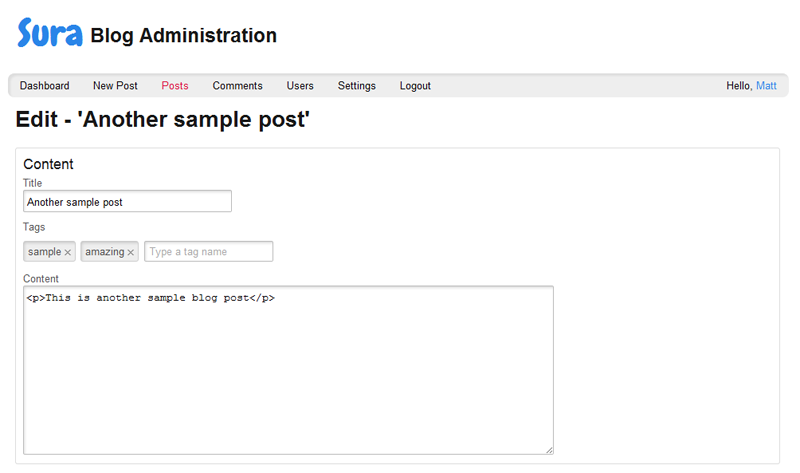
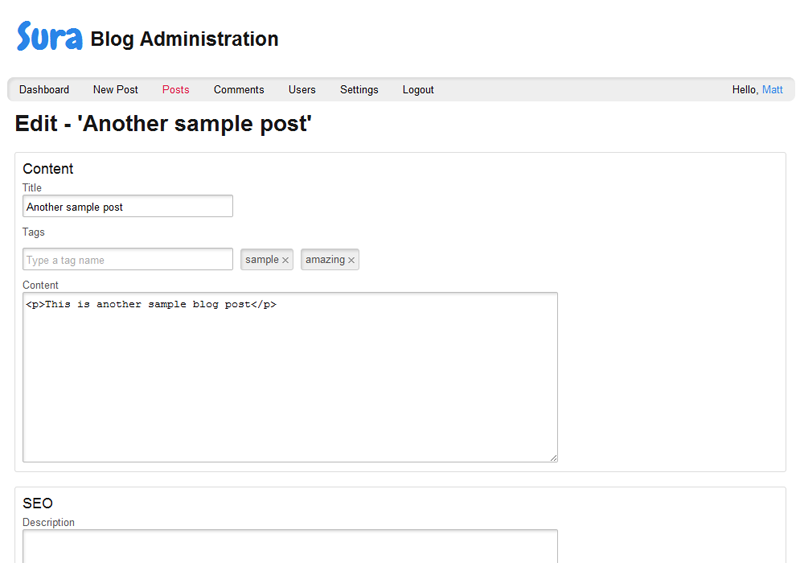
Rewritten tag input javascript

Changed region(s): [[0.0, 0.0296, 1.0, 0.6512], [0.0312, 0.8584, 0.6875, 0.9471], [0.6875, 0.7992, 0.7188, 0.8288]]

diff --git a/src/Sura/Content/Javascripts/Sura/sura-admin-posts.min.js b/src/Sura/Content/Javascripts/Sura/sura-admin-posts.min.js
@@ -1228,174 +1228,53 @@ $.timepicker.version = "0.9.6";
 })(jQuery);
 
 (function ($) {
-    $.fn.tagInput = function (options) {
+    $.fn.tagInput = function() {
+        var input = $(this)
+           , div = $('<div />').addClass('post-tags').insertAfter(input)
+           , copy = $(this).clone().attr('id', '_Tags').attr('name', '_Tags').val('').appendTo(div)
+           , tagList = $('<ul />').addClass('taglist').appendTo(div);
 
-        var defaults = {
-            seperator: ',',
-            style: {
-                list: 'taglist',
-                item: 'tag',
-                input: 'input',
-                remove: 'delete'
+        input.prev().attr('for', '_Tags');
+        input.hide();
+
+        var _addToList = function(value) {
+            var remove = $('<a />', { tabindex: '-1' }).addClass('remove').append($('<span />').html('[X]')).click(function() {
+                $(this).parent().parent().remove();
+            })
+
+            var listTag = $('<span/>').html(value).append(remove)
+             , listItem = $('<li/>').addClass('tag').html(listTag);
+                
+            tagList.append(listItem);
+        };
+        
+        var _addTag = function (tag) {
+            var value = $(tag).val();
+            var tags = input.val().split(',');
+            
+            if ($.inArray(value, tags) === -1) {
+                tags.push(value);
+                input.val(tags.splice(tags[0] === '' ? 1 : 0, tags.length));
+                _addToList(value);
             }
+            
+            copy.val('');
         };
 
-        options = $.extend(defaults, options);
-
-        $(this).each(function () {
-
-            if ((seperator = $(this).attr('data-seperator')) != '')
-                options.seperator = seperator;
-
-            var create_tag = function (text) {
-                var value = text.replace(/^\s+|\s+$/g, '');
-                if (value == '')
-                    return;
-
-                var item = $('<li/>').addClass(options.style.item);
-                var tag = $('<span/>');
-                var close_text = $('<span/>').html('[X]');
-                var close = $('<a/>', { tabindex: '-1' }).addClass(options.style.remove).append(close_text).click(function () {
-                    $(this).closest('li').remove();
-                    update_input();
-                });
-
-                if (values.indexOf(value) > -1)
-                    return;
-
-                values.push(value);
-                tag.html(value);
-                item.append(tag).append(' ').append(close);
-                return item;
-            };
-
-            var add_tag = function (input) {
-                if ($(input).val() != '') {
-                    var item = create_tag($(input).val());
-                    if (!item) {
-                        $(input).val('');
-                        $(input).width(8);
-                    }
-                    else {
-                        $(input).closest('li').before(item);
-                        $(input).val($(input).val().replace(options.seperator, ''));
-                        $(input).width(8).val('').focus();
-                    }
-                    update_input();
-                    shadow.html('');
-                }
-            };
-
-            var update_input = function () {
-                var tags = [];
-                $('li.' + options.style.item + ' > span', list).each(function () {
-                    tags.push($(this).html());
-                });
-                values = tags;
-                $(input).val(tags.join(options.seperator));
-            };
-
-            var input = $(this);
-
-
-            if (input.is(':input')) {
-                input.hide();
-                var list = $('<ul/>').addClass(options.style.list).click(function () {
-                    $(this).find('input').focus();
-                });
-
-                var add = null;
-                var tags = input.val().replace(/ /g, '').split(',');
-                var values = [];
-                for (index in tags) {
-                    var item = create_tag(tags[index]);
-                    list.append(item);
-                }
-
-                var placeholder = null;
-
-                if (input.attr('placeholder') != null) {
-                    placeholder = input.attr('placeholder');
-                    add = $('<input placeholder="' + placeholder + '" class="placeholder" type="text" />', { type: 'text' });
-                } else {
-                    add = $('<input />', { type: 'text' });
-                }
-
-                update_input();
-                input.after(list);
-                var input_container = $('<li/>').addClass(options.style.input);
-                var shadow = $('<span/>');
-                shadow.hide();
-                input_container.append(add);
-                add.after(shadow);
-                list.append(input_container);
-
-                var auto_width = function (input) {
-                    shadow.html($(input).val().replace(/\s/g, '&nbsp;'));
-                    var zone = ($(input).val() == '' ? 8 : 10);
-                    $(input).width(shadow.width() + zone);
-                    //add.removeAttr('placeholder');
-                };
-
-                add.bind('keyup', function () {
-                    auto_width(this);
-                }).bind('keydown', function (event) {
-                    auto_width(this);
-                    var key = event.keyCode || event.which;
-
-                    if ($(this).val() == '' && (key == 8 || key == 46)) //backspace or delete
-                    {
-                        $(this).width($(this).val() != '' ? shadow.width() + 5 : 8);
-
-                        switch (key) {
-                            case 8: $(this).closest('li').prev().remove(); break;
-                            case 46: $(this).closest('li').next().remove(); break;
-                        }
-
-                        update_input();
-                        event.preventDefault();
-                        return false;
-                    }
-
-                    if ($(this).val() == '') {
-                        if (key == 37 || key == 38) //left, up
-                        {
-                            $(this).width($(this).val() != '' ? shadow.width() + 5 : 8);
-                            $(this).closest('li').prev().before($(this).closest('li'));
-                            $(this).focus();
-                        }
-                        if (key == 39 || key == 40) //down, right
-                        {
-                            $(this).width($(this).val() != '' ? shadow.width() + 5 : 8);
-                            $(this).closest('li').next().after($(this).closest('li'));
-                            $(this).focus();
-                        }
-                    }
-                }).bind('keypress', function (event) {
-                    auto_width(this);
-                    var key = event.keyCode || event.which;
-                    if (',' == String.fromCharCode(key) || options.seperator == key || key == 13) {
-                        add_tag(this);
-                        event.preventDefault();
-                        return false;
-                    }
-                }).bind('blur', function () {
-                    add_tag(this);
-                    $(this).closest('ul').append($(this).closest('li'));
-
-                });
-
-                add.focus(function () {
-                    $(this).parent().parent().addClass('focused');
-                }).blur(function () {
-                    if (values.length < 1) {
-                        $(this).attr('placeholder', placeholder).css('width', '150px');
-                    }
-                    $(this).parent().parent().removeClass('focused');
-                });
+        copy.bind('keydown', function(event) {
+            if (event.which === 188 || event.which === 13) {
+                _addTag(this);
+                event.preventDefault();
+                return false;
             }
-
         });
-
+        
+        if(input.val().length > 0) {
+            var tags = input.val().split(/,[\s]*/);
+            
+            for (var i = 0; i < tags.length; i++) {
+                _addToList(tags[i]);
+            }
+        }
     };
 })(jQuery)

diff --git a/src/Sura/Content/Stylesheets/Sura/sura-admin-posts.css b/src/Sura/Content/Stylesheets/Sura/sura-admin-posts.css
@@ -137,15 +137,24 @@ span#schedule-datetimepicker input
 .ui-timepicker-div dl dd { margin: -25px 0 10px 65px; }
 .ui-timepicker-div td { font-size: 90%; padding-top: 5px; }
 
+div.post-tags
+{
+    float: left;
+    width: 100%;
+}
+
+div.post-tags input, div.post-tags ul
+{
+    clear: none;
+    float: left;
+}
 
 ul.taglist
 {
-    clear: right;
+    clear: none;
     color: #505050;
-    float: left;
-    margin: 0 0 0 0;
+    margin: 0 0 0 0.75em;
     padding: 0;
-    width: 99%;
 }
 
 ul.taglist li
@@ -153,11 +162,6 @@ ul.taglist li
     clear: none;
     display: inline-block;
     float: left;   
-}
-
-ul.taglist li:first-child
-{
-    font-weight: normal;
 }
 
 ul.taglist.focused
@@ -172,8 +176,8 @@ ul.taglist li.tag
     border-radius: 3px 3px 3px 3px;
     cursor: default;
     list-style: none;
-    line-height: 1.85em;
-    margin: 0 0.5em 0.5em 0;
+    line-height: 1.95em;
+    margin: 0.25em 0.75em 0.5em 0;
     padding: 0 1.35em 0 0.45em;
     position: relative;
     -webkit-user-select: none;
@@ -192,19 +196,20 @@ ul.taglist li.tag a.delete span
     visibility: hidden;
 }
 
-ul.taglist li.tag a.delete
+ul.taglist li.tag a.remove
 {
     background: url("../../Images/Sura/input-tag.png") 0 0 no-repeat;
     cursor: pointer;    
     height: 14px;
     position: absolute;
     right: 0.15em;
+    text-indent: -9999px;
     text-decoration: none;
     top: 0.47em;
     width: 16px;
 }
 
-ul.taglist li.tag a.delete:hover
+ul.taglist li.tag a.remove:hover
 {
     background: url("../../Images/Sura/input-tag.png") 0 -15px no-repeat;
 }
@@ -222,16 +227,14 @@ ul.taglist li input[type=text]
     font-size: 13px; 
     padding: 6px 3px 4px; 
     outline: none !important; 
-    background: url(../../Images/misc/input-bg.png) #fff;
     clear: none;
     color: black;
     cursor: text;
     line-height: 1.76em;
     float: left;    
     margin: 0 0 0 0.15em;
-    min-width: 11.6em;
     padding: 0.125em 0.4em;
-    width: 11.6em;
+    width: 
 }
 
 textarea.body
